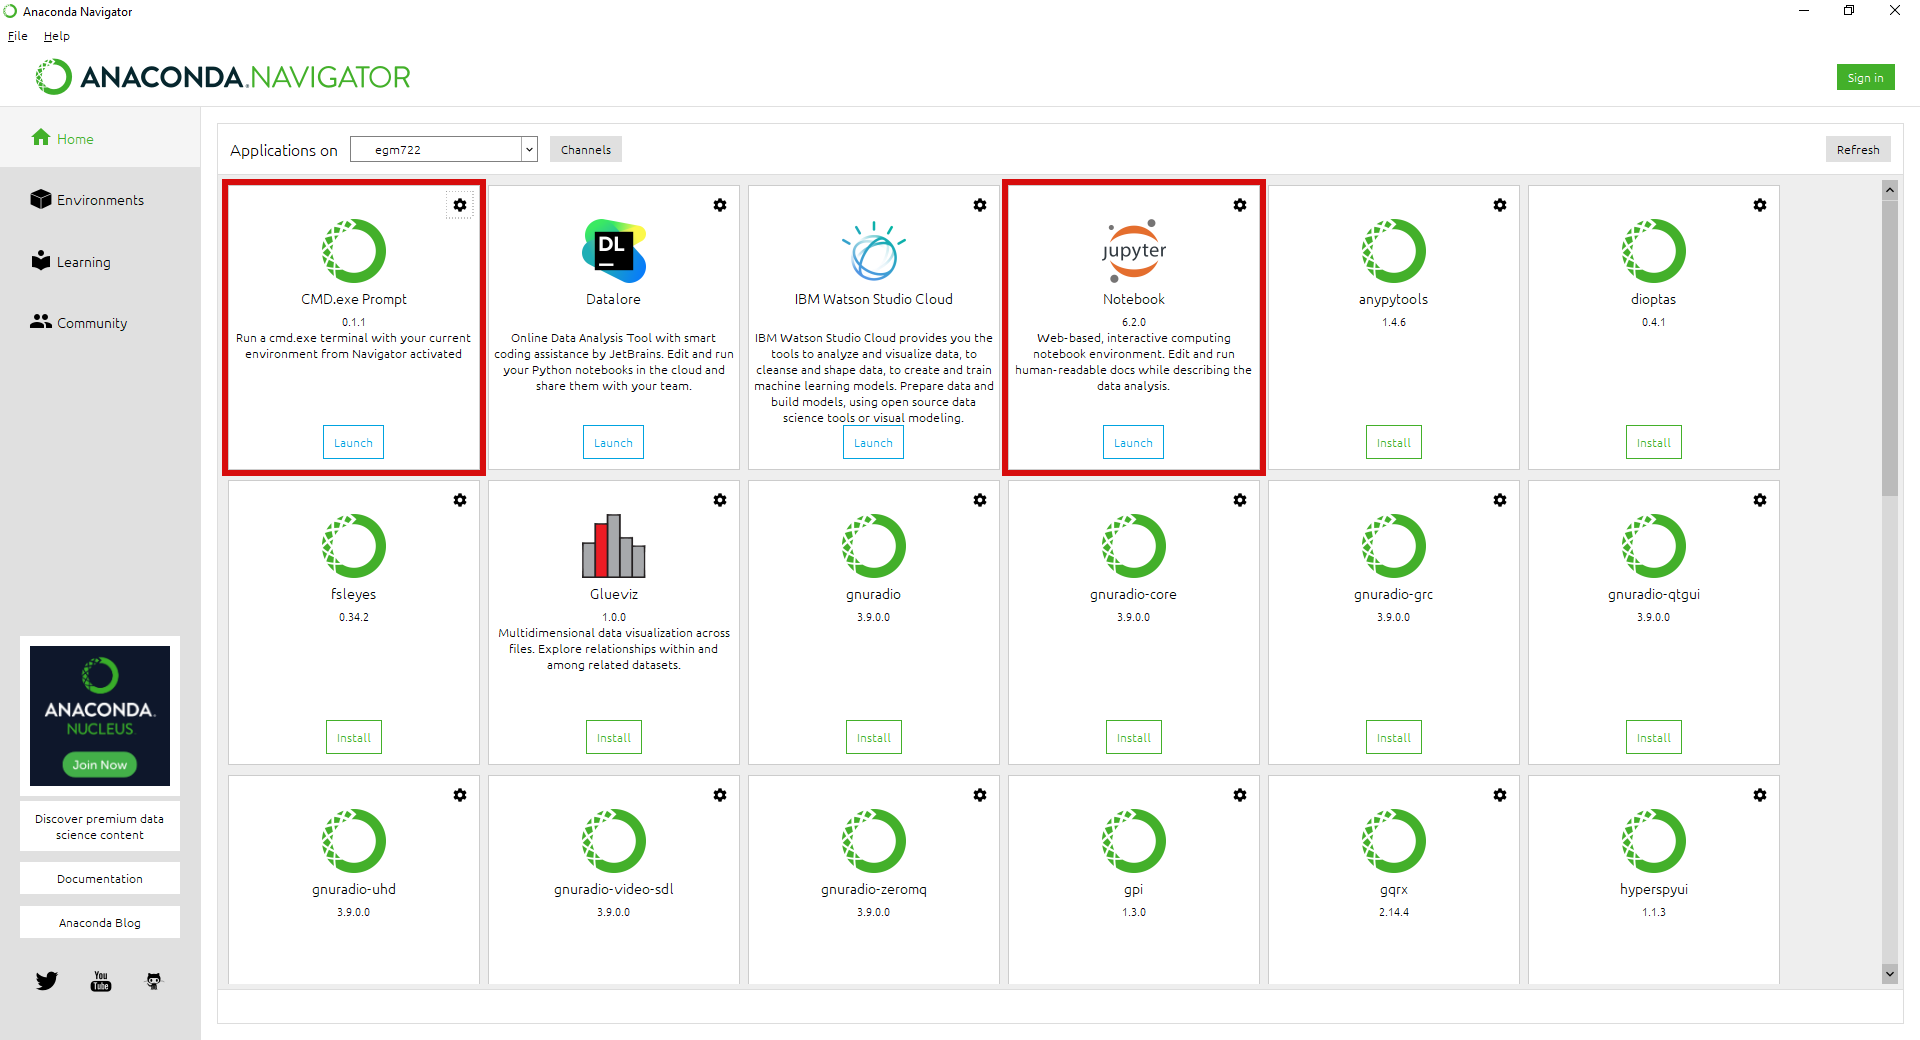
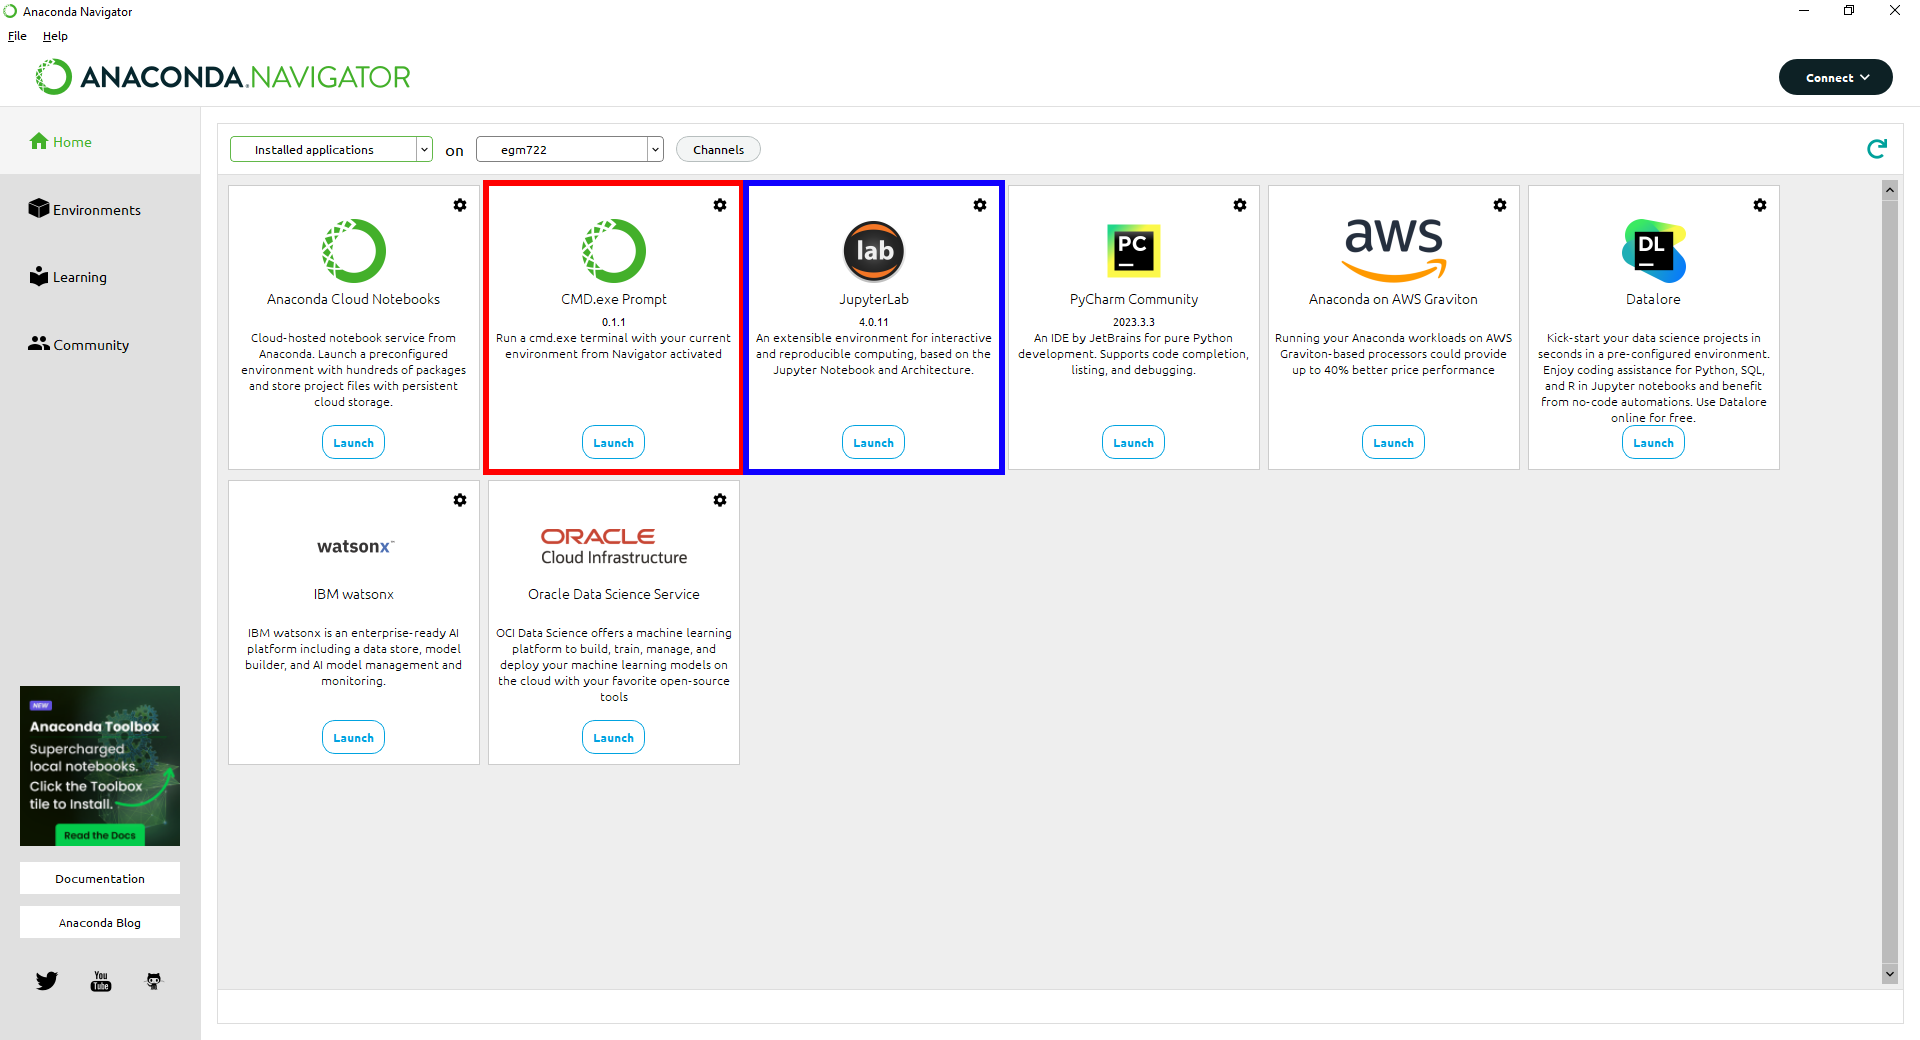
update getting started instructions, screenshots

diff --git a/docs/teaching/egm722/practicals/pythonintro.rst b/docs/teaching/egm722/practicals/pythonintro.rst
@@ -2,10 +2,10 @@ intro to python
 ================
 
 To get started in the world of programming using python, we will use `Jupyter Notebooks <https://jupyter.org/>`__ within
-a Jupyter Lab environment, which provide a way for creating and sharing documents that have interactive code snippets
+a JupyterLab environment, which provide a way for creating and sharing documents that have interactive code snippets
 alongside narrative text, images, and more.
 
-Getting Started
+getting started
 ----------------
 
 .. warning::
@@ -16,11 +16,14 @@ Getting Started
     You should also have forked the course repository and cloned it to your computer. If **any** of these steps sound
     unfamiliar, stop now and go back over the :doc:`setup instructions<../setup/index>`.
 
-To start, open **Anaconda Navigator** and ensure that your environment is set to the ``egm722`` environment created
-during the preliminary setup (you should see "Applications on **egm722**" at the top of the window).
+To start, open **Anaconda Navigator**, make sure that you are on the **Home** tab, and select the ``egm722`` environment
+created during the preliminary setup from the second menu at the top of the window (to the right of "**on**").
 
-To open Jupyter Lab, we can **either** launch the **CMD.exe Prompt**, or launch Jupyter Lab directly from Anaconda
-Navigator:
+You may also want to switch from "**All applications**" to "**Installed applications**", to make it easier to find the
+applications you're looking for.
+
+To open JupyterLab, we can **either** launch the **CMD.exe Prompt** (red box), or launch it directly from
+**Anaconda Navigator** (blue box) - note that your layout may differ slightly from mine:
 
 .. image:: ../../../img/egm722/week1/anaconda.png
     :width: 720
@@ -29,28 +32,34 @@ Navigator:
 
 |br| I will provide instructions below for both methods; **you will only need to do one of them**.
 
-Method 1: Command Prompt
+method 1: command prompt
 ^^^^^^^^^^^^^^^^^^^^^^^^^
 
-When you launch the command prompt, it will start in the directory where you have installed Anaconda (most likely
-``C:\Users\YourUserName``). Navigate to the directory where you have cloned the EGM722 repository.
+When you launch the **Anaconda command prompt**, it will start in the directory where you have installed Anaconda
+(most likely your ``%HOME%`` directory, ``C:\Users\YourUserName``).
 
-Remember that from the command prompt, you can change directories using the **cd** command. For example, if I have cloned
-the directory to ``C:\Users\bob\egm722\``, to get to that folder I would type:
+You will need to navigate from here to the directory where you have cloned the EGM722 repository using the ``cd``
+command:
+
+.. code-block:: text
+
+    cd <path-to-repository>
+
+For example, if I have cloned the repository to ``C:\Users\bob\egm722``, to get to that folder I would type:
 
 .. code-block:: text
 
     cd C:\Users\bob\egm722
 
-You can also see the contents of the current director using the **dir** command – you should see a file called **PythonIntro.ipynb** as
-well as two folders, **data_files** and **imgs**:
+You can also see the contents of the current directory using the ``dir`` command – you should see the
+**environment.yml**, **.gitignore**, **LICENSE**, and **README.md** files, as well as a directory, **Week1**:
 
 .. image:: ../../../img/egm722/week1/prompt1.png
     :width: 600
     :align: center
     :alt: the command prompt
 
-|br| From this folder, type ``jupyter-lab`` at the prompt and press **Enter**. You should see the jupyter-lab app
+|br| From this folder, type ``jupyter-lab`` at the prompt and press **Enter**. You should see the ``jupyter-lab`` app
 begin running:
 
 .. image:: ../../../img/egm722/week1/prompt2.png
@@ -65,21 +74,17 @@ begin running:
     :align: center
     :alt: the jupyter browser window
 
-|br| At this point, skip to the next section (:ref:`Opening the Notebook`).
+|br| At this point, skip to the next section (:ref:`opening the notebook`).
 
-Method 2: Launch Jupyter Lab directly
-^^^^^^^^^^^^^^^^^^^^^^^^^^^^^^^^^^^^^^^^^^^^
+method 2: launch jupyterlab directly
+^^^^^^^^^^^^^^^^^^^^^^^^^^^^^^^^^^^^^^
 
-When you launch Jupyter Notebooks directly from **Anaconda Navigator**, a browser window will open:
+When you launch JupyterLab directly from **Anaconda Navigator**, a browser window will open. If you have not
+:doc:`set the configuration <../setup/jupyter>` to open in your EGM722 repository folder, you will most likely need to
+navigate to the folder where you have cloned the EGM722 repository in the file browser on the left-hand side of the
+window. Do this, and navigate through to the **Week1** folder.
 
-.. image:: ../../../img/egm722/week1/jupyter_anaconda.png
-    :width: 720
-    :align: center
-    :alt: the jupyter browser window
-
-|br| The file browser will begin in the directory where you have installed Anaconda (most likely
-``C:\Users\YourUserName``). You will need to navigate to the folder where you have cloned the EGM722 repository by
-following the links. Navigate to the Week1 folder. Once there, you should see the following:
+Once there, you should see the following:
 
 .. image:: ../../../img/egm722/week1/jupyter.png
     :width: 720
@@ -88,11 +93,11 @@ following the links. Navigate to the Week1 folder. Once there, you should see th
 
 .. _opening the notebook:
 
-Opening the Notebook
+opening the notebook
 --------------------
 
-Open the Practical 1 notebook by double-clicking on the **Week1** folder, then double-clicking **PythonIntro.ipynb**. This
-will open the following browser tab (or window):
+Open the Practical 1 notebook by double-clicking on the **Week1** folder, then double-clicking **PythonIntro.ipynb**.
+This will open the notebook as a new tab in the JupyterLab console:
 
 .. image:: ../../../img/egm722/week1/notebook.png
     :width: 720
@@ -121,17 +126,30 @@ also see the output text produced by the commands (assuming that they have produ
     Make sure to work through the notebook **sequentially**, as well – some of the cells require that a previous cell
     has been run; if it hasn’t, it will most likely throw an ``Error`` or an ``Exception``.
 
-Clearing the Outputs
+clearing the outputs
 --------------------
 
 If you would like to start over, you can clear the outputs of individual cells from the menus at the top of the page:
-**Cell** > **Current Outputs** > **Clear**. You can also do this for all of the outputs at one time.
+**Edit** > **Clear Cell Output** to clear the output of the currently selected cell, or **Edit** >
+**Clear Outputs of All Cells** to clear all outputs at the same time.
 
-To completely restart the session, you can restart the python *kernel* – the python interpreter program that Jupyter
-Notebooks is running "under the hood (or bonnet)" to provide the interactive code. To do this, from the **Kernel** menu,
-you can select **Restart**, or **Restart & Clear Output**.
+.. tip::
 
-Closing the Notebook
+    Before you make any commits of a notebook (**.ipynb**) file, I very strongly recommend clearing the outputs - most
+    of the time, the outputs of a cell are easily reproduced, which means you don't actually need to save them (just
+    the code that produced the output)!
+
+    This will (a) make for smaller commit sizes (since you won't be keeping track of images, etc.), but also (b) make it
+    less likely that you end up with a merge conflict (since git won't be keeping track of the order that you ran each
+    cell in).
+
+To completely restart the session, you can restart the python *kernel* – the python interpreter program that Jupyter is
+running "under the hood" (or bonnet, depending on your preferred flavor of English) to provide the interactive code.
+
+To do this, from the **Kernel** menu, you can select **Restart**, or **Restart & Clear Output**. You can also press the
+circular "**Restart the kernel**" button from the notebook menu (right next to the square "stop" button).
+
+closing the notebook
 --------------------
 
 Once you have worked your way through the notebook and are confident that you understand what is being asked, you can
@@ -143,10 +161,10 @@ you have to select **Shutdown** from the **File** menu in the upper left-hand co
     :align: center
     :alt: the shutdown menu option highlighted in the jupyter window
 
-|br| Close the browser window, and (if you launched Jupyter Lab from the **Command Prompt**), close the
-**Command Prompt** window.
+|br| Close the browser window, and (if you launched JupyterLab from the **Command Prompt**), you can close the
+**Command Prompt** window now.
 
-Next steps: Introduction to git
+next steps: introduction to git
 --------------------------------
 
 We’ll be sprinkling uses of git throughout the work in this module, but you might also find it useful to work through
